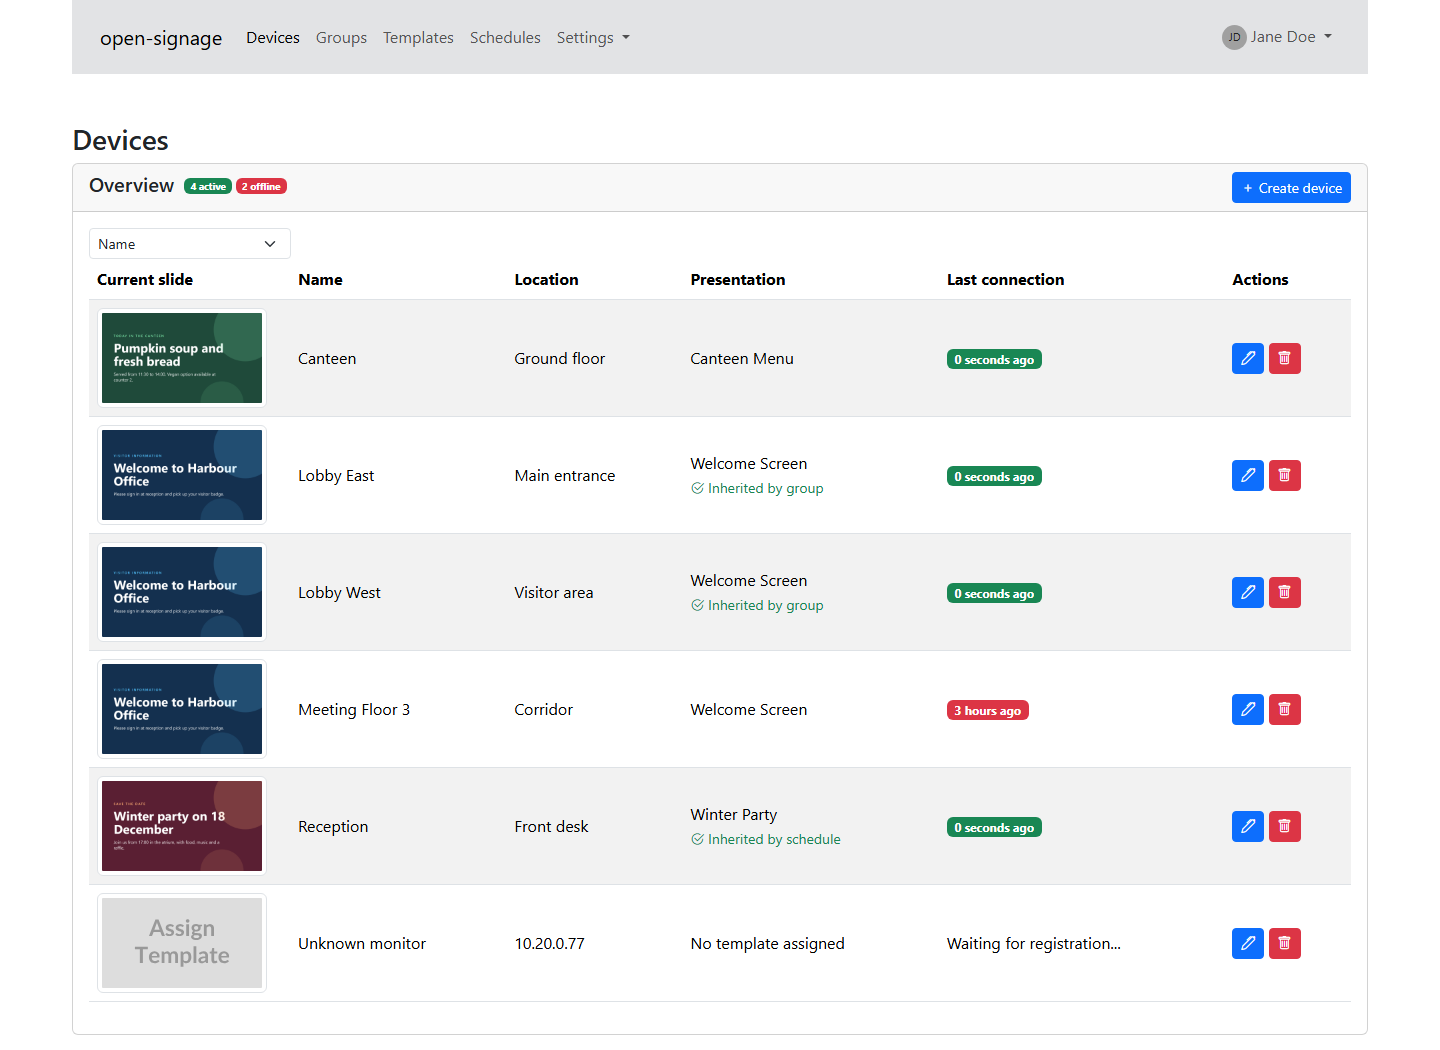
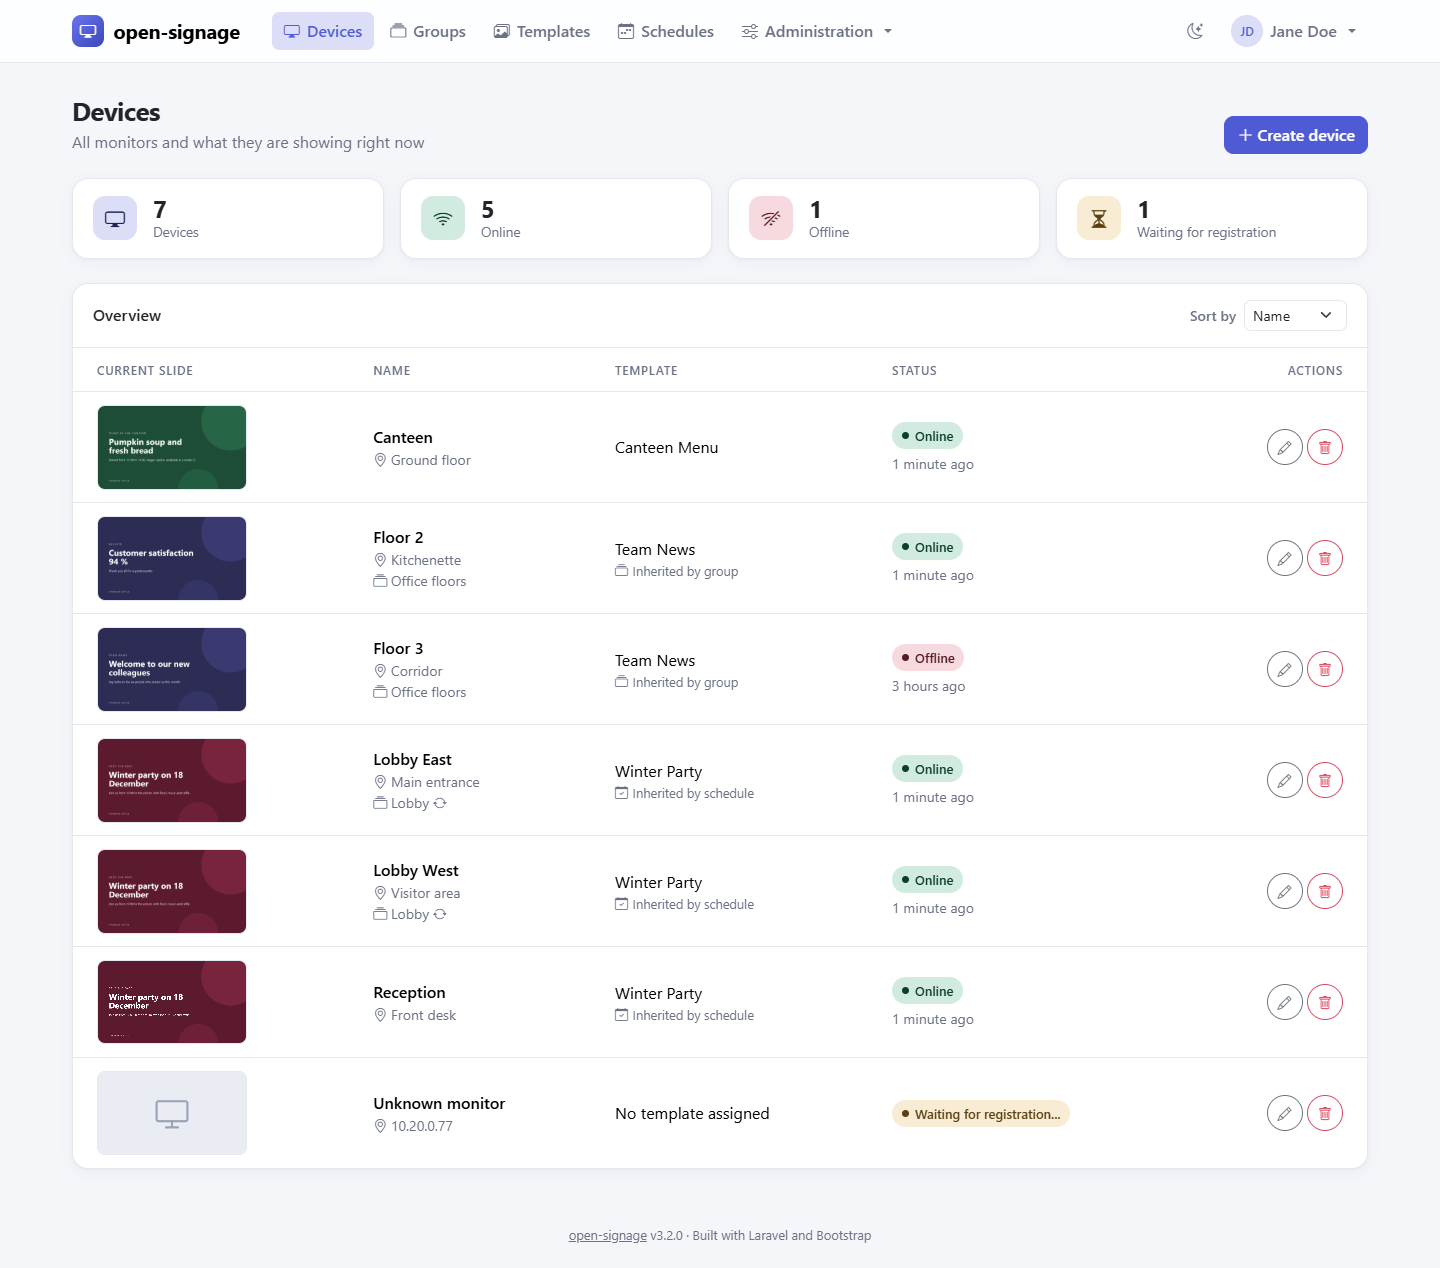
Refresh README screenshots and intro
New screenshots of the current interface (v3.2.0) with fictional demo
data, including the schedule form with template preview and a
synchronized group. The intro now names common use cases and adds
release and license badges.

diff --git a/README.md b/README.md
@@ -1,12 +1,14 @@
 <h1 align="center">open-signage</h1>
 
-<p align="center">Browser-based digital signage, managed from one web interface and built with Laravel.</p>
+<p align="center">Self-hosted, open-source digital signage software. Manage all your screens from one web interface.</p>
 
 <p align="center">
   <a href="https://github.com/bluecraank/open-signage/actions/workflows/docker-publish.yml"><img src="https://github.com/bluecraank/open-signage/actions/workflows/docker-publish.yml/badge.svg" alt="Docker build status"></a>
+  <a href="https://github.com/bluecraank/open-signage/releases/latest"><img src="https://img.shields.io/github/v/release/bluecraank/open-signage" alt="Latest release"></a>
+  <a href="LICENSE"><img src="https://img.shields.io/github/license/bluecraank/open-signage" alt="License"></a>
 </p>
 
-Upload a PDF or MP4, assign it to your screens, and every screen updates by itself. A screen only needs a web browser, there is nothing to install on it.
+Upload a PDF or MP4, assign it to your screens, and every screen updates by itself. A screen only needs a web browser, there is nothing to install on it: a Raspberry Pi in kiosk mode or any PC with a browser works as a display. Use it for info screens in offices, reception and lobby displays, canteen menus, schools or video walls. Runs in Docker, built with Laravel.
 
 ![Device overview with live status and the slide each monitor is showing](docs/screenshots/devices.png)
 
@@ -33,6 +35,8 @@ Upload a PDF or MP4, assign it to your screens, and every screen updates by itse
 | ![Template list with previews and usage](docs/screenshots/presentations.png) | ![Template with its slides, devices, groups and schedules](docs/screenshots/presentation.png) |
 | **Device** | **Schedules** |
 | ![Device page with current slide and inherited template](docs/screenshots/device.png) | ![Running, upcoming and past schedules](docs/screenshots/schedules.png) |
+| **Edit schedule** | **Synchronized group** |
+| ![Schedule form with a preview of the selected template](docs/screenshots/schedule.png) | ![Group with synchronized monitors](docs/screenshots/group.png) |
 
 What a monitor shows:
 
